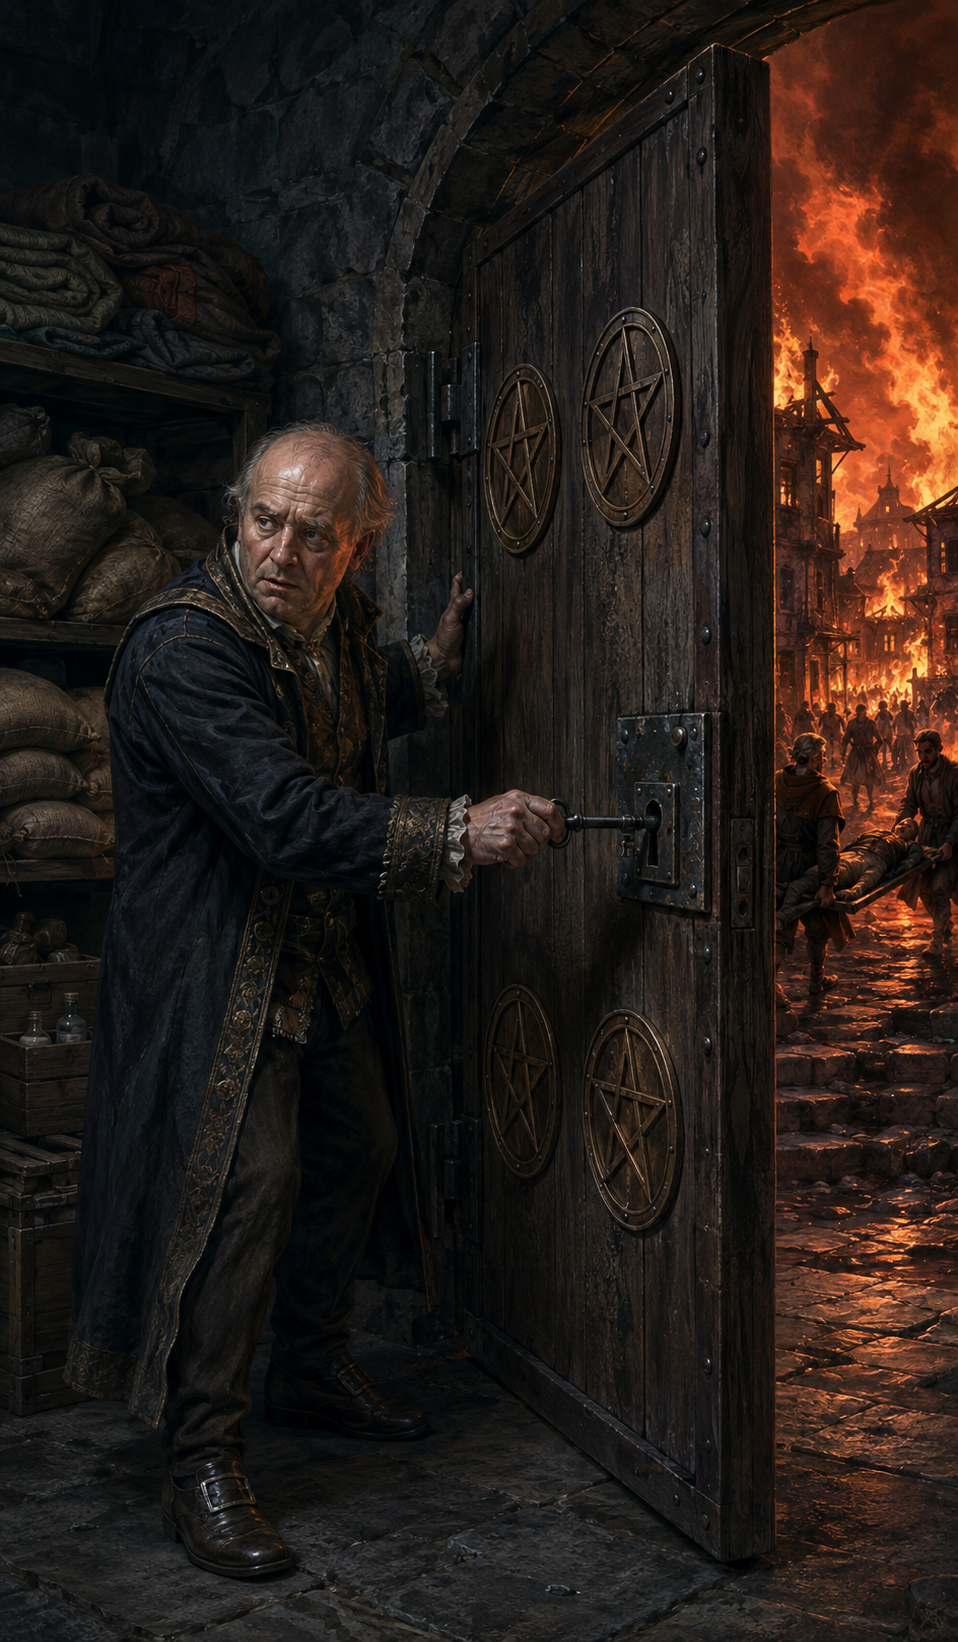
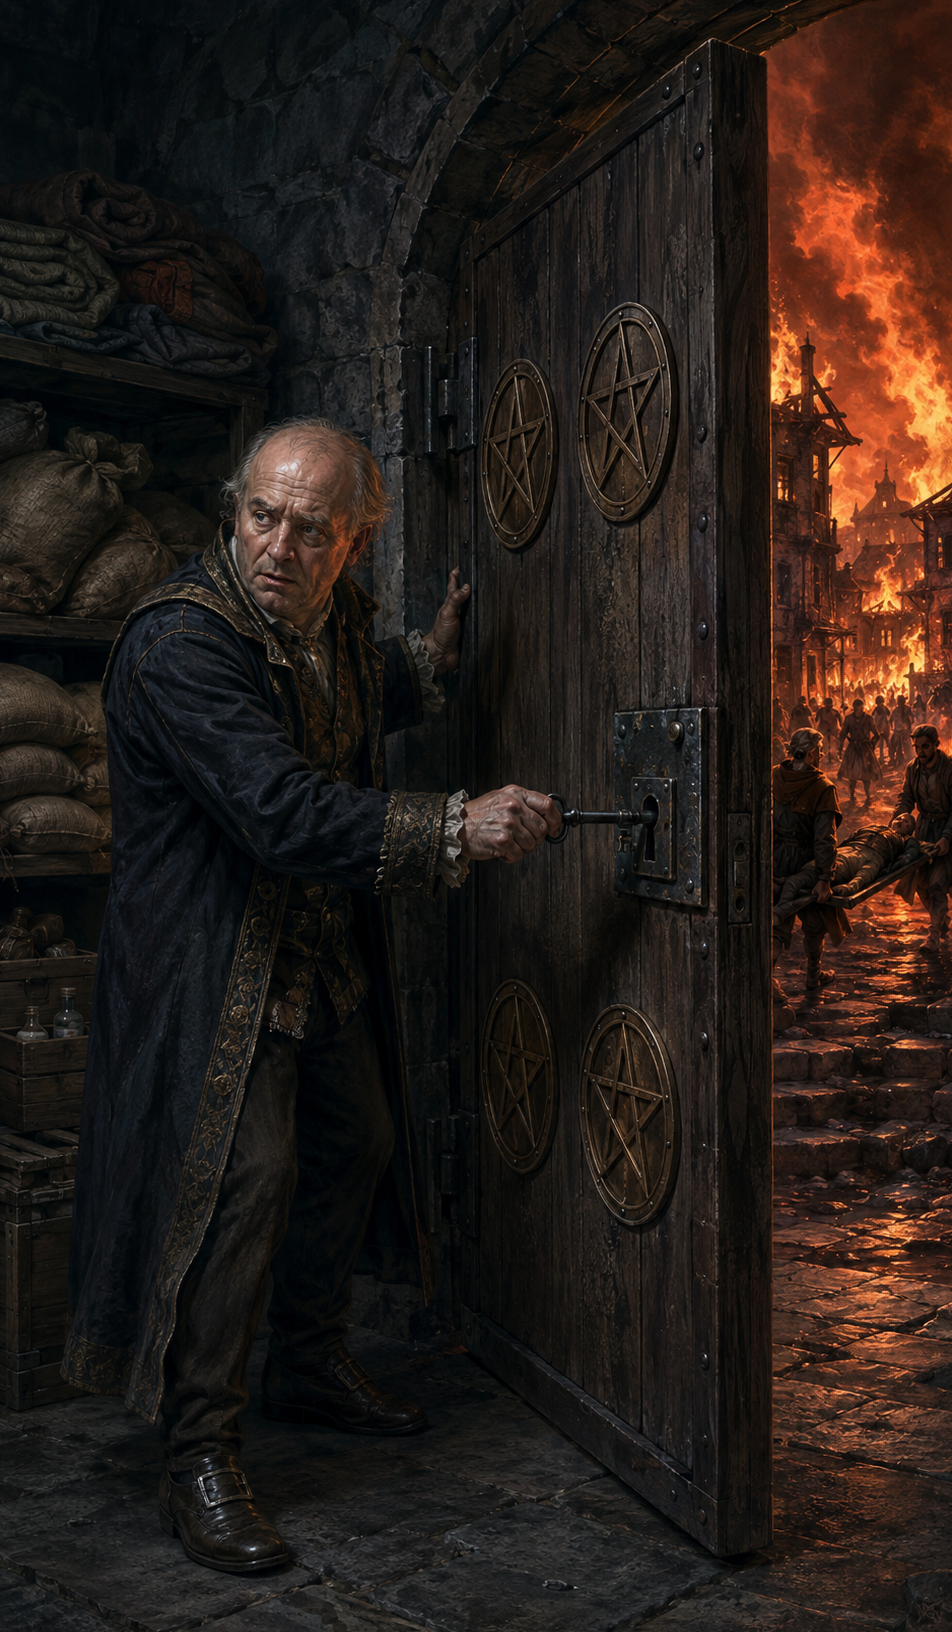
Normalize the owner-approved A23 Four of Pentacles asset to the canonical 952x1632 production dimensions and synchronize its manifest, record, and test metadata. Replace the stale fallback test input exposed after restoring pack loading.

diff --git a/NoxAeterna.Tests/App/TarotArtworkPackTests.cs b/NoxAeterna.Tests/App/TarotArtworkPackTests.cs
@@ -391,9 +391,9 @@ public sealed class TarotArtworkPackTests
             (
                 "minor.pentacles.four",
                 "cards/minor/pentacles/four.png",
-                958,
-                1642,
[1 lines of base64/hex data omitted]
+                952,
+                1632,
[1 lines of base64/hex data omitted]
             (
                 "minor.pentacles.nine",
                 "cards/minor/pentacles/nine.png",
@@ -869,21 +869,21 @@ public sealed class TarotArtworkPackTests
     public void PrototypeFallbackVisualPlan_PreservesSemanticCardAndHonestFallbackLabel()
     {
         var catalog = TarotArtworkPackCatalog.CreateForTests(TarotArtworkPackTestData.LoadRepositoryPack());
-        var card = StandardTarotCatalog.Deck.Cards.Single(candidate => candidate.Id.Value == "minor.wands.king");
+        var card = StandardTarotCatalog.Deck.Cards.Single(candidate => candidate.Id.Value == "minor.wands.three");
         var artwork = catalog.Resolve(new TarotArtworkPackId("lupus-noctis"), card);
         var assignment = new TarotDrawnCard(new TarotSpreadPositionId("card"), card, TarotCardOrientation.Upright);
 
         var plan = TarotCardVisualPlan.Create(
             assignment,
             artwork,
-            "King of Wands",
+            "Three of Wands",
             "Wands",
             "Prototype fallback");
 
         Assert.Same(card, plan.Card);
         Assert.Equal(TarotArtworkResolutionKind.Prototype, plan.ArtworkKind);
         Assert.Null(plan.RasterAssetPath);
-        Assert.Equal("King of Wands", plan.LocalizedTitle);
+        Assert.Equal("Three of Wands", plan.LocalizedTitle);
         Assert.Equal("Prototype fallback", plan.PrototypeFallbackText);
         Assert.Equal(0d, plan.RotationDegrees);
         Assert.True(plan.HasLocalizedTitleOverlay);

diff --git a/resources/assets/tarot/artwork-packs/lupus-noctis/LUPUS-NOCTIS.md b/resources/assets/tarot/artwork-packs/lupus-noctis/LUPUS-NOCTIS.md
@@ -145,7 +145,7 @@
 - A23 production cards and owner outcomes:
   - [`minor.wands.king`](records/minor/wands/king.md) — owner acceptance: **Accepted** after `G2`, cumulative generation count **2**. G2 followed the owner's request for a calmer, less repetitive forest background.
   - [`minor.swords.eight`](records/minor/swords/eight.md) — owner acceptance: **Accepted** after `G2`, cumulative generation count **2**. G2 replaced G1's tight wrist restraint with the owner-accepted candidate.
[1 lines of base64/hex data omitted]
+  - [`minor.pentacles.four`](records/minor/pentacles/four.md) — owner acceptance: **Accepted** as an owner-supplied replacement after `G5`, cumulative generation count **5**. The accepted artwork remains that owner-supplied replacement; its production asset was normalized from `958 × 1642 px` to canonical `952 × 1632 px` by a minimal symmetric center crop, without changing artistic content or owner acceptance.
 - A24: **Accepted** self-possession / illusion / conflict / exposed truth / patient duty batch.
 - A24 creation and acceptance: all five illustrations were created by the owner together with ChatGPT outside Codex and artistically accepted by the owner before handoff. Codex performed technical batch import only; it did not generate, regenerate, correct, or artistically review the assets.
 - A24 production cards:
@@ -164,6 +164,7 @@ Runtime discovery, AppData seeding, user-pack behavior, normalization, tooling, 
 - The owner creates Tarot prompts and final illustrations with ChatGPT outside Codex and visually accepts every image before handoff. Artistic acceptance belongs exclusively to the owner.
 - A normal handoff contains **3–5 owner-approved PNGs**. Codex does not generate, regenerate, or artistically review Tarot images.
 - Codex imports the supplied PNGs and checks only file-level technical parameters, dimensions, SHA-256, canonical paths, and repository consistency.
+- Owner-approved source dimensions may differ slightly from production dimensions, but every production PNG and manifest entry must exactly match the pack's `expectedSourceDimensions`. Production normalization takes precedence over byte preservation and may use uniform scaling and/or center crop without stretching or artistic modification.
 - After receiving the complete batch, Codex updates the relevant records, manifest, tests, and project documentation once for the batch.
 
 ## Core World

diff --git a/resources/assets/tarot/artwork-packs/lupus-noctis/records/minor/pentacles/four.md b/resources/assets/tarot/artwork-packs/lupus-noctis/records/minor/pentacles/four.md
@@ -9,8 +9,14 @@
 - Accepted asset source: **owner-supplied replacement after G5**
 - Production status: **accepted**
 - Production asset path: `cards/minor/pentacles/four.png`
-- Production dimensions: `958 × 1642 px`
[1 lines of base64/hex data omitted]
+- Production dimensions: `952 × 1632 px`
[1 lines of base64/hex data omitted]
+
+### Technical Production Normalization
+
[1 lines of base64/hex data omitted]
+- The production asset was later normalized to `952 × 1632 px` by an exact symmetric center crop: `3 px` from each vertical side and `5 px` from each horizontal side.
+- No stretching, scaling, color change, or artistic editing was applied. The correction removes the mismatch with the canonical runtime contract and does not increase the cumulative generation count.
 
 ## Meaning-First Brief
 
@@ -243,17 +249,17 @@ Absolute constraints: Exactly one treasurer. One correctly sized operable door l
 - Accepted dimensions: `958 × 1642 px`
[1 lines of base64/hex data omitted]
 - Owner decision: **Accepted**
-- Production promotion: byte-preserving move to `cards/minor/pentacles/four.png`
+- Initial production promotion: byte-preserving move to `cards/minor/pentacles/four.png`; the later technical normalization is recorded above
 
 ## Owner Outcome
 
 - Final owner decision: **Accepted**
 - Accepted asset: **owner-supplied replacement after Generation 5**
 - Production asset: `cards/minor/pentacles/four.png`
-- Production dimensions: `958 × 1642 px`
[1 lines of base64/hex data omitted]
+- Production dimensions: `952 × 1632 px`
[1 lines of base64/hex data omitted]
 - Cumulative generation count: **5**
 - Image references: **none for every generation**
 - Pending duplicate: **removed**
 - Manifest bookkeeping: **updated**
-- Production promotion: **performed byte-for-byte**
+- Production normalization: **minimal symmetric center crop from the owner-supplied accepted source; no scaling, stretching, or artistic change**

diff --git a/docs/SESSION-LOG.md b/docs/SESSION-LOG.md
@@ -9,6 +9,19 @@
 
 Older retained evidence is indexed in [the documentation archive](archive/README.md). Use [PROJECT-STATE.md](PROJECT-STATE.md) for the current checkpoint.
 
+## 2026-08-05: ART-LN-CI-FIX Canonical Four of Pentacles Production Dimensions
+
+Summary:
+
+- Technically normalized the owner-supplied accepted A23 Four of Pentacles from `958 × 1642` to canonical `952 × 1632` by cropping `3 px` from each vertical side and `5 px` from each horizontal side. No scaling, stretching, generation, artistic edit, owner-decision change, or generation-count change occurred.
+- Updated the production hash and dimensions in the manifest, focused tuple, card record, and A23 summary; added the durable handoff rule that production normalization takes precedence over byte preservation; removed the resolved current-state blocker. Inventory remains 68 production plus 10 fallback with `partialPack: true`.
+- After the loader blocker was removed, the milestone run exposed one stale fallback test still using production A23 King of Wands. Its input was corrected to omitted `minor.wands.three`; runtime code and artwork were unchanged.
+
+Verification:
+
+- The production PNG decode, manifest/record hashes, canonical dimensions, and inventory consistency check passed. `dotnet build NoxAeterna.sln -c Release` passed with 0 warnings and 0 errors.
+- The single requested Full route completed `672` tests with `671` passed and one stale-fixture failure. That fixture was corrected after the run; the Full route was not repeated, honoring the one-run constraint.
+
 ## 2026-08-05: ART-LN A24 Technical Batch Import
 
 Summary:

diff --git a/docs/PROJECT-STATE.md b/docs/PROJECT-STATE.md
@@ -46,4 +46,3 @@ A24 is complete. Await the next owner-approved artwork batch under the Lupus Noc
 ## Active Blockers
 
 - A24 has no remaining blocker. A25, AP1–AP5, and PKG1 remain unstarted pending the owner's next-stage choice.
-- The focused `App-Workspace` route remains red because the pre-existing A23 `minor.pentacles.four` production asset and manifest entry are `958 × 1642`, while `TarotArtworkPackLoader` requires every card to declare `952 × 1632` at exact `7:12`. A24 did not alter that owner-approved A23 asset or the runtime contract.
